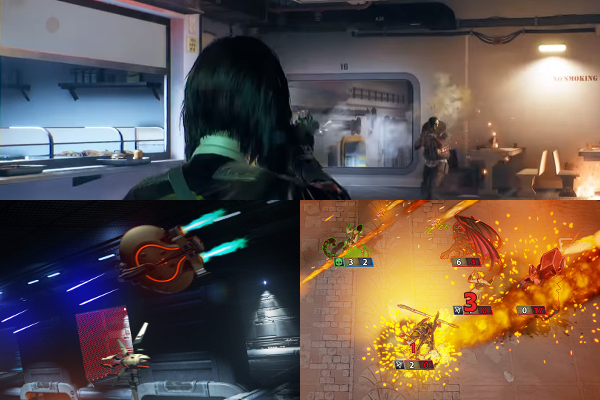
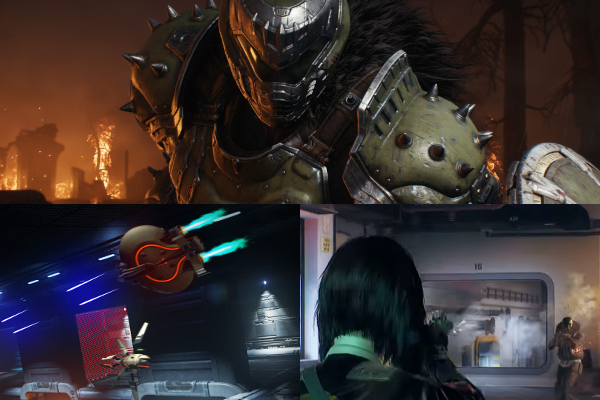
Dark Ages reveal

diff --git a/portfolio.md b/portfolio.md
@@ -1,7 +1,8 @@
 # Portfolio
 
 * [Professional Projects](#professional-projects)
-  * [Doom: Eternal](#doom-eternal)
+  * [Doom: The Dark Ages](#doom-the-dark-ages)
+  * [Doom Eternal](#doom-eternal)
   * [Rogue Company](#rogue-company)
   * [Realm Royale](#realm-royale)
   * [Hand of the Gods](#hand-of-the-gods)
@@ -11,26 +12,38 @@
 * [Student Projects](#student-projects)
 
 * [Technical Experience](#tech-experience)
+  * [idTech](#idtech)
   * [Unreal Engine 4](#ue4)
   * [Unity 4](#unity)
 
 ## Professional Projects
 
+### Doom: The Dark Ages {#doom-the-dark-ages}
+#### (Apr 2021 - Present), id Software - Windows, XSX\|S, PS5
+
+![Doom: The Dark Ages logo](/images/dark-ages-logo.png "Doom: The Dark Ages Logo")
+
+*Doom: The Dark Ages* is an upcoming sci-fi/fantasy first-person shooter from the genre-defining *Doom* franchise.  A prequel to *Doom (2016)*, *The Dark Ages* explores the Doom Slayer's past, fighting the legions of Hell in a dark fantasy setting.
+
+As it is not yet available, I am currently unable to share details of my work on *The Dark Ages*.  The game is currently slated to launch in 2025 on Windows, Xbox Series X|S, and PlayStation 5.
+
+See the [world premiere trailer from the 2024 Xbox Games Showcase](https://www.youtube.com/watch?v=4tk8lkmYGWQ).
+
 ### Doom: Eternal {#doom-eternal}
-#### (Apr 2021 - Present), id Software - Windows, Stadia, XB1, XSX/S, PS4, PS5, Switch
+#### (Apr 2021 - Oct 2021), id Software - Windows, Stadia, XB1, XSX\|S, PS4, PS5, Switch
 
-![Doom: Eternal logo](/images/DoomEternalLogo.png "Doom Eternal Logo")
+![Doom Eternal logo](/images/DoomEternalLogo.png "Doom Eternal Logo")
 
-*Doom: Eternal* is a sci-fi old-school-revival first-person shooter, the latest in the genre-defining *Doom* franchise.  The Doom Slayer continues his fight against the legions of Hell and those who have aligned with it for power.  Expanding and refining on the gameplay of *Doom (2016)*, *Eternal* revels in its high-mobility, push-forward combat.
+*Doom Eternal* is a sci-fi first-person shooter from the genre-defining *Doom* franchise.  The Doom Slayer continues his fight against the legions of Hell and those who have aligned with it for power.  Expanding and refining on the gameplay of *Doom (2016)*, *Eternal* revels in its high-mobility, push-forward combat.
 
 I started at id at the start of the second year of post-launch support for *Eternal*, just after the release of its second DLC pack, *The Ancient Gods: Part Two*.  I provided bugfixes and contributed to the development of the Horde Mode that launched as part of "Patch 6.66", including spearheading visual debugging via imGui.
 
-*Doom: Eternal* launched on 19 March 2020 simultaneously on Windows, Stadia, Xbox One, and PlayStation 4.  It was later ported to Nintendo Switch on 8 December 2020 and subsequently ported to Xbox Series X/S and PlayStation 5 (with ray-traced reflections that simultaneously came to PC) on 29 June 2021.  You can see more about the game at [the *Doom: Eternal* website](https://bethesda.net/en/game/doom).
+*Doom Eternal* launched on 19 March 2020 simultaneously on Windows, Stadia, Xbox One, and PlayStation 4.  It was later ported to Nintendo Switch on 8 December 2020 and subsequently ported to Xbox Series X/S and PlayStation 5 (with ray-traced reflections that simultaneously came to PC) on 29 June 2021.
 
 See the [trailer for "Patch 6.66"](https://www.youtube.com/watch?v=69a0hZVgIU0), which debuted Horde Mode.
 
 ### Rogue Company {#rogue-company}
-#### (Sept 2017 - Mar 2021), First Watch Games / Hi-Rez Studios - Windows, XB1, XSX/S, PS4, PS5, Switch
+#### (Sept 2017 - Mar 2021), First Watch Games / Hi-Rez Studios - Windows, XB1, XSX\|S, PS4, PS5, Switch
 
 ![Rogue Company Box Art](/images/NewRoCoLogo.png "Rogue Company Logo")
 
@@ -121,6 +134,9 @@ I've created [a separate page](/personalportfolio) for talking about my personal
 I've squirrelled away my student work onto [a separate page](/studentportfolio).
 
 ## Technical Experience {#tech-experience}
+
+### idTech {#idtech}
+Since joining id Software, I have been working inside id's in-house engine, idTech, specifically version 7, which powered *Doom Eternal*, and newer.  Each version of idTech is tailored to the specific game which it powers.
 
 ### Unreal Engine 4 {#ue4}
 For the first six years of my career, I worked almost exclusively in UE4, and I had a fantastic time operating within that environment.  Both Blueprint and Unreal's spin on C++ are very familiar to me, having done gameplay and UI programming in both.  UE4 provides very powerful tools that make all sorts of games possible.  I've worked on a 6DoF shooter, a card game, and a third-person shooter in UE4, and it works excellently in all of those cases.  I can understand why so many games are hopping on the UE4 wagon, from fighting games like *SoulCalibur 6* to RPGs like the *Final Fantasy VII* remake to massive-scale shooters like *Fortnite* and *PlayerUnknown's Battlegrounds*.

diff --git a/index.md b/index.md
@@ -1,4 +1,4 @@
-![Sizzle Picture](/images/Sizzle.png "Top: Rogue Company, Bottom Left: Descent, Bottom Right: Hand of the Gods")
+![Sizzle Picture](/images/Sizzle.png "Top: Doom: The Dark Ages, Bottom Left: Descent, Bottom Right: Rogue Company")
 
 # About
 I am an American Gameplay Programmer living in Frankfurt, Germany.  I'm currently part of the id Software team.
